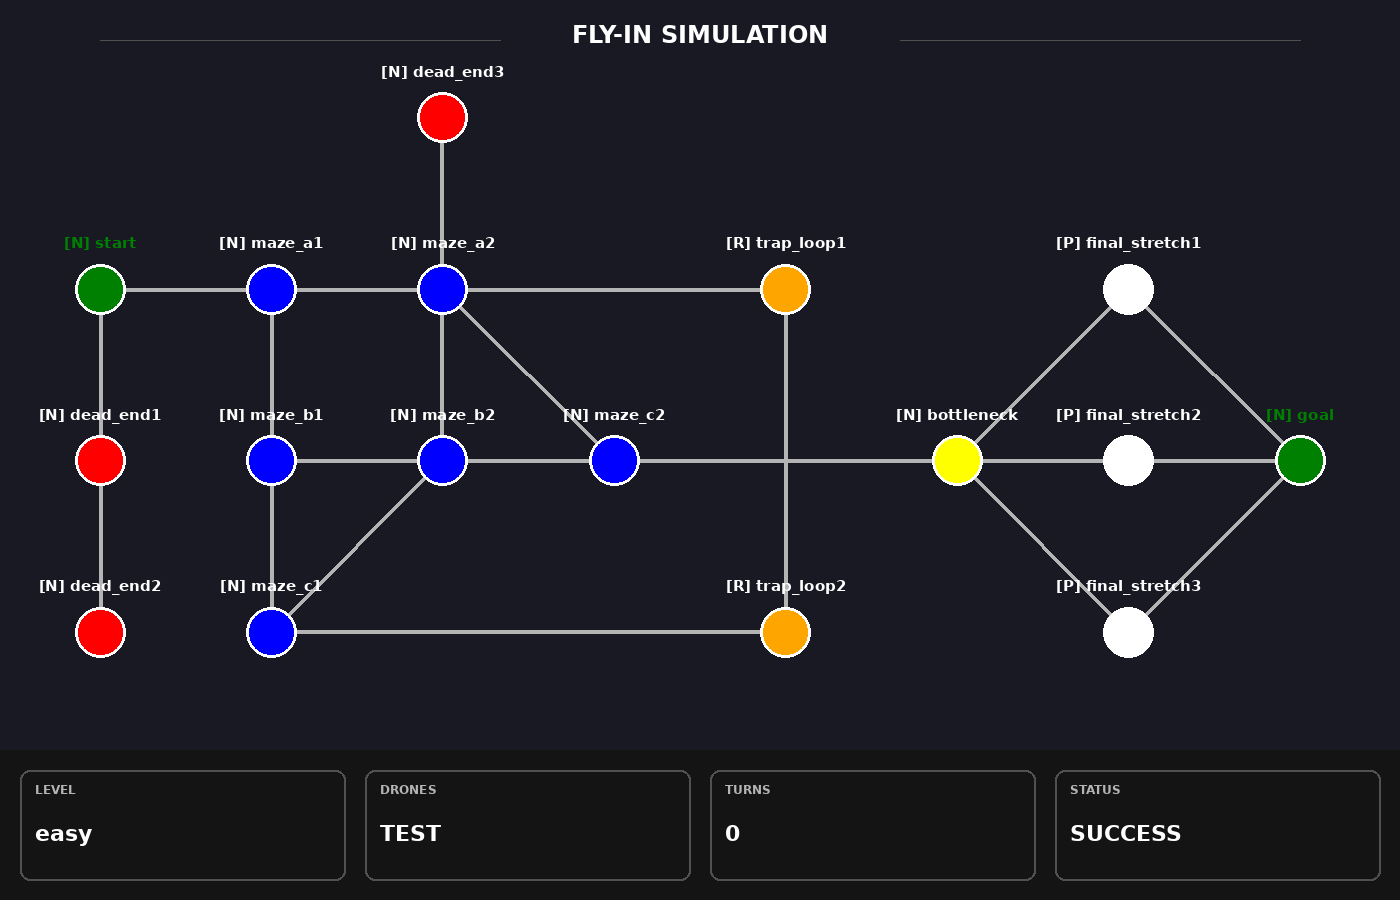
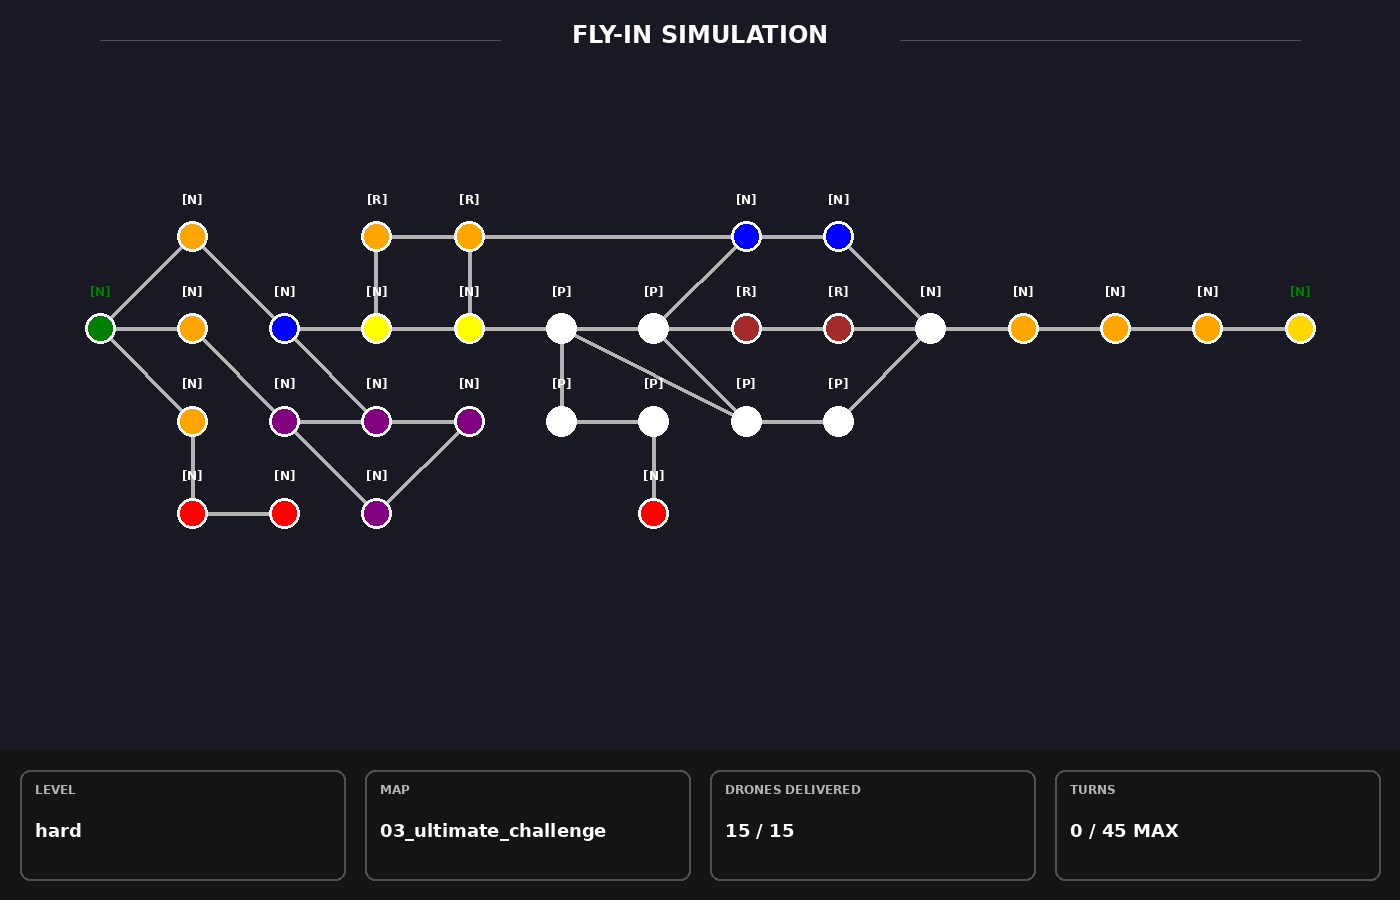
added img

diff --git a/src/render/ImageGenerator.py b/src/render/ImageGenerator.py
@@ -2,6 +2,7 @@ import os
 from PIL import Image, ImageDraw, ImageFont
 from src.core.Simulator import Simulator
 from src.render.constants import (PIL_COLORS, PIL_SYMBOLS)
+from src.render.constants import TURN_LIMITS
 
 IMG_WIDTH = 1400
 IMG_HEIGHT = 900
@@ -16,11 +17,18 @@ class ImageGenerator:
     into a gif for animation - All stores in assets/img
     """
     def __init__(self, simulator: Simulator) -> None:
+        self.drones = simulator.drones
+        self.nb_drones = simulator.nb_drones
         self.zones = simulator.zones
         self.connections = simulator.connections
         self.start = simulator.start_zone
         self.end = simulator.end_zone
         self.simul_res = simulator.simulate_turns()
+
+        self.map_name = os.path.splitext(
+            os.path.basename(simulator.parser.file_path))[0]
+        self.folder_name = os.path.basename(
+            os.path.dirname(simulator.parser.file_path))
         
     def get_scale(self) -> tuple[float, int, int, int, int]:
         """
@@ -102,13 +110,16 @@ class ImageGenerator:
         card_width = int((available_width - gap * 3) / 4)
         card_height = REPORT_HEIGHT - 40
         card_y = IMG_HEIGHT - REPORT_HEIGHT + 20
-        
+
+        drones_delivered = sum(
+            1 for drone in self.drones if drone.delivered)
+        max_turns_allowed = TURN_LIMITS[self.folder_name][self.map_name]
+
         cards = [
-            ("LEVEL", "easy"),
-            ("DRONES", "TEST"),
-            ("TURNS", len(self.simul_res)),
-            ("STATUS", "SUCCESS")
-        ]
+            ("LEVEL", self.folder_name),
+            ("MAP", self.map_name),
+            ("DRONES DELIVERED", f"{drones_delivered} / {self.nb_drones}"),
+            ("TURNS", f"{len(self.simul_res)} / {max_turns_allowed} MAX"),]
 
         title_font = ImageFont.truetype(
             "/usr/share/fonts/truetype/dejavu/DejaVuSans-Bold.ttf",
@@ -116,7 +127,7 @@ class ImageGenerator:
 
         value_font = ImageFont.truetype(
             "/usr/share/fonts/truetype/dejavu/DejaVuSans-Bold.ttf",
-            22)
+            18)
 
         for i, (title, value) in enumerate(cards):
             x = padding + i * (card_width + gap)
@@ -200,7 +211,13 @@ class ImageGenerator:
                 "/usr/share/fonts/truetype/dejavu/DejaVuSans-Bold.ttf",
                 font_size)
 
-            label = f"[{zone_symbols}] {zone.name}"
+            if zone_count <= 15:
+                label = f"[{zone_symbols}] {zone.name}"
+            elif zone_count <= 30:
+                label = f"[{zone_symbols}] {zone.name[:8]}..."
+            else:
+                label = f"[{zone_symbols}]"
+
             bbox = draw.textbbox((0, 0), label, font=font)
             text_width = bbox[2] - bbox[0]
 